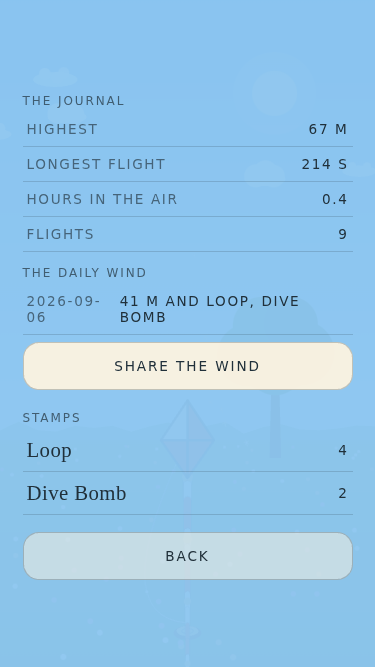
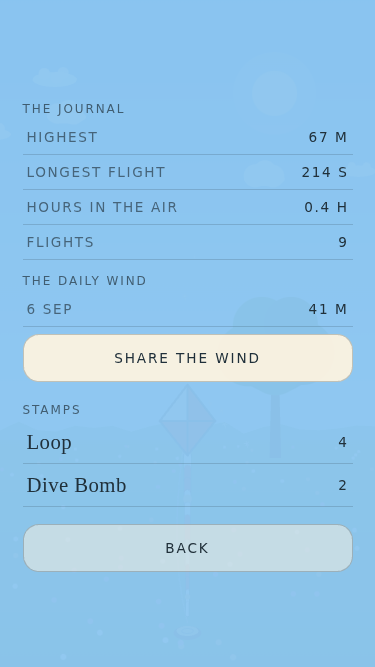
Updraft: a spoken date, and a friend's invitation that covers nothing
The debt Fable's takeover named is closed. The seven gates were rerun cold as
one table and all passed, then test/daily.mjs was watched to fail under the
DAILY.seedFor mutation the ledger asked for: with the seed taken from the clock
the two boot assertion goes red on exactly the line it guards.

Then the two copy faults the builder saw in its own shots. The Daily Wind toast
and the journal row both printed a raw ISO day, so a player read the wind of
2026 dash 09 dash 06, which is unreadable and carries dashes into player copy
that the studio's law forbids. DAILY.day speaks it, short in the journal's
narrow left column, and that row now carries the height alone with the stamps
left to the list under it. Hours carries its unit like every other row, and a
number never breaks from its unit across a line.

The invitation moved out of the toast. Floating it covered the title art at 26
percent, the wordmark and TO THE FIELD at 46, and the sound row at the foot,
all three seen in shots; it is a quoted line in the title's own column now,
above the button it explains, and nothing on a 915 tall phone is pushed off.

The daily gate used to require the literal string with the ISO date in it, so
the gate was the bug's protector. It holds the law instead: the day is named in
words, the height and the stamps are there, and no dash of any kind appears.

Seven gates green at stamp 20260906f.

Claude-Session: https://claude.ai/code/session_01CohA1CK6e5eCWUdrKWPpuM

diff --git a/satellites/updraft/index.html b/satellites/updraft/index.html
@@ -9,9 +9,9 @@
 <meta name="apple-mobile-web-app-capable" content="yes">
 <meta name="apple-mobile-web-app-status-bar-style" content="black-translucent">
 <meta name="apple-mobile-web-app-title" content="UPDRAFT">
-<link rel="manifest" href="./manifest.webmanifest?v=20260906e">
-<link rel="apple-touch-icon" href="./icon-192.png?v=20260906e">
-<link rel="icon" href="./icon-192.png?v=20260906e">
+<link rel="manifest" href="./manifest.webmanifest?v=20260906f">
+<link rel="apple-touch-icon" href="./icon-192.png?v=20260906f">
+<link rel="icon" href="./icon-192.png?v=20260906f">
 <link rel="canonical" href="https://lucidwinds.com/satellites/updraft/">
 <style>
 /*  UPDRAFT
@@ -92,6 +92,16 @@ html,body{margin:0;padding:0;height:100%;background:#8CC6F0;color:var(--ink);
 .card.sel b::after{content:"  \2713"}
 .title-line{font-size:.8rem;letter-spacing:.11em;color:var(--ink);opacity:.8;
   text-align:center;margin:2px 0 18px;line-height:1.7;padding:0 6px}
+/* ⛔ A FRIEND'S INVITATION IS CONTENT, NOT A TOAST. Floating, it covered the title art
+   at 26 percent, the wordmark and TO THE FIELD at 46, and the sound row at the foot
+   (three Sep 06 shots). It is a line in the column now, above the button it explains,
+   and it pushes nothing off a 915 tall phone. */
+/* not the buttons' cream, or it reads as a fourth button: a quieter panel with a
+   gold rule down its left edge, the way a quoted line is set */
+#titleFrom{opacity:1;color:var(--ink);background:rgba(255,255,255,.34);
+  border-left:3px solid rgba(214,110,74,.75);border-radius:0 12px 12px 0;
+  padding:10px 14px;max-width:330px;margin:0 0 18px;font-size:.78rem;text-align:left}
+#titleFrom[hidden]{display:none}
 .lede{font-size:.9rem;line-height:1.7;color:var(--ink);text-align:left;
   width:100%;max-width:330px;margin:9px 0}
 .cap{font-size:.75rem;letter-spacing:.16em;color:var(--ink);opacity:.7;margin:14px 0 4px;
@@ -105,19 +115,25 @@ html,body{margin:0;padding:0;height:100%;background:#8CC6F0;color:var(--ink);
 .toggles .btn{margin:7px 0}
 .stat{font-size:.8rem;color:var(--cream);letter-spacing:.13em;margin:5px 0;text-transform:uppercase}
 #endWord{font-size:1.4rem;letter-spacing:.2em;color:var(--cream);margin:6px 0 2px}
-#toast{position:fixed;left:50%;top:26%;transform:translateX(-50%);
+/* ⛔ THE TOAST NEVER COVERS A CONTROL OR THE ART. 26 percent put it over the title's
+   art panel, the one picture on the screen; 46 percent moved it onto the wordmark and
+   the top half of TO THE FIELD (both Sep 06 daily title shots). In play it keeps the
+   middle, where nothing is; on the title it drops to the empty band under the last
+   button and over the brand. */
+#toast{position:fixed;left:50%;top:46%;transform:translateX(-50%);
   background:rgba(255,244,224,.94);border:1px solid rgba(32,48,58,.25);
   color:var(--ink);padding:10px 16px;border-radius:12px;font-size:.85rem;
   z-index:40;opacity:0;pointer-events:none;transition:opacity 180ms ease-out;
   max-width:90%;text-align:center}
 #toast.on{opacity:1}
+#toast.low{top:auto;bottom:calc(58px + var(--safeB))}
 #testPanel{position:absolute;inset:0;z-index:60;background:#04070a;color:#cfe;
   overflow:auto;font:12px/1.55 ui-monospace,SFMono-Regular,Menlo,monospace;
   padding:14px;display:none;white-space:pre-wrap}
 #testPanel.on{display:block}
 @media (prefers-reduced-motion:reduce){*{transition-duration:1ms!important}}
 </style>
-<script src="/music-unlocks.js?v=20260906e" defer></script>
+<script src="/music-unlocks.js?v=20260906f" defer></script>
 </head>
 <body>
 <h1 style="position:absolute;width:1px;height:1px;margin:-1px;padding:0;overflow:hidden;clip:rect(0 0 0 0);clip-path:inset(50%);white-space:nowrap;border:0">UPDRAFT</h1>
@@ -138,6 +154,7 @@ html,body{margin:0;padding:0;height:100%;background:#8CC6F0;color:var(--ink);
     <canvas id="titleArt" width="660" height="360" aria-label="A kite over a field"></canvas>
     <div id="titleWord">UPDRAFT</div>
     <div class="title-line">Go fly a kite. Right now.</div>
+    <div class="title-line" id="titleFrom" hidden></div>
     <button class="btn lead" id="btnPlay">TO THE FIELD</button>
     <div class="toggles">
       <button class="btn small" id="btnHow">HOW TO FLY</button>
@@ -1420,8 +1437,27 @@ var DAILY = (function () {
     if (!m) return null;
     return { date: m[1], alt: m[2] ? parseInt(m[2], 10) : 0, tricks: (m[3] || '').split('').map(function (c) { return NAMES[c]; }) };
   }
-  function words(t) { return (t.alt ? t.alt + ' m' : 'the grass') + (t.tricks.length ? ' and ' + t.tricks.join(', ') : ''); }
-  return { today: today, seedFor: seedFor, moodFor: moodFor, link: link, parse: parse, words: words };
+  /* ⛔ A DATE A PLAYER READS IS SPOKEN, NEVER AN ISO STRING. The toast said "the wind
+     of 2026-09-06" and the journal row said "2026-09-06", which is both unreadable and
+     two dashes in player copy, which the studio's copy law forbids. day() speaks it,
+     and shortDay() fits the journal's narrow left column. */
+  var MONTHS = ['January', 'February', 'March', 'April', 'May', 'June', 'July',
+    'August', 'September', 'October', 'November', 'December'];
+  function day(dateStr, short) {
+    var p = String(dateStr || '').split('-');
+    if (p.length !== 3) return String(dateStr || '');
+    var m = MONTHS[parseInt(p[1], 10) - 1] || p[1], d = parseInt(p[2], 10);
+    if (short) m = m.slice(0, 3);
+    var out = d + ' ' + m;
+    if (p[0] !== String(new Date().getFullYear())) out += ' ' + p[0];
+    return out;
+  }
+  /* a number and its unit are one word, so "41 m" never breaks across two lines */
+  function words(t) { return (t.alt ? t.alt + '\u00a0m' : 'the grass') + (t.tricks.length ? ' and ' + t.tricks.join(', ') : ''); }
+  /* the journal's own row has a narrow left column, so it carries the height only and
+     leaves the tricks to the STAMPS list right below it */
+  function shortWords(t) { return t.alt ? t.alt + '\u00a0m' : 'the grass'; }
+  return { today: today, seedFor: seedFor, moodFor: moodFor, link: link, parse: parse, words: words, shortWords: shortWords, day: day };
 })();
 function shareDaily(t) {
   var url = DAILY.link(t), text = 'I flew the Daily Wind to ' + DAILY.words(t) + '. Your turn, same gusts.';
@@ -1433,15 +1469,16 @@ function shareDaily(t) {
   fallback();
 }
 
-var STAMP = '20260906e';
+var STAMP = '20260906f';
 function showScreen(name) {
   var ids = { title: 'scrTitle', how: 'scrHow', pause: 'scrPause', mood: 'scrMood', kites: 'scrKites', journal: 'scrJournal', end: 'scrEnd' }, k;
   for (k in ids) $(ids[k]).classList.toggle('on', k === name);
   G.screen = name;
   $('hud').style.display = (name === 'play') ? '' : 'none';
 }
-function toast(msg) {
+function toast(msg, low) {
   var t = $('toast'); t.textContent = msg; t.classList.add('on');
+  if (low) t.classList.add('low'); else t.classList.remove('low');
   clearTimeout(toast.h); toast.h = setTimeout(function () { t.classList.remove('on'); }, 2200);
 }
 function hint(msg) { var h = $('hint'); h.textContent = msg; h.classList.add('on'); clearTimeout(hint.h); hint.h = setTimeout(function () { h.classList.remove('on'); }, 5000); }
@@ -1584,9 +1621,9 @@ function openJournal(from) {
   if (G.st) setInput(G.st, false, 0); G.ptr = null;
   $('jAlt').innerHTML = '<i>HIGHEST</i><span>' + j.bestAlt + ' M</span>';
   $('jLong').innerHTML = '<i>LONGEST FLIGHT</i><span>' + j.longest + ' S</span>';
-  $('jHours').innerHTML = '<i>HOURS IN THE AIR</i><span>' + (Math.round(j.hours * 10) / 10) + '</span>';
+  $('jHours').innerHTML = '<i>HOURS IN THE AIR</i><span>' + (Math.round(j.hours * 10) / 10) + '\u00a0H</span>';
   $('jFlights').innerHTML = '<i>FLIGHTS</i><span>' + j.flights + '</span>';
-  $('jDaily').innerHTML = j.daily ? '<i>' + j.daily.date + '</i><span>' + DAILY.words(j.daily).toUpperCase() + '</span>' : '<i>NOT FLOWN YET</i><span>3 MIN, ONE WIND</span>';
+  $('jDaily').innerHTML = j.daily ? '<i>' + DAILY.day(j.daily.date, 1).toUpperCase() + '</i><span>' + DAILY.shortWords(j.daily).toUpperCase() + '</span>' : '<i>NOT FLOWN YET</i><span>3 MIN, ONE WIND</span>';
   $('btnShareJ').hidden = !j.daily;
   names.forEach(function (n) { var c = j.tricks[n] || 0; if (c) { any = true; html += '<div class="jrow"><b>' + n + '</b><span>' + c + '</span></div>'; } });
   $('jStamps').innerHTML = any ? html : '<div class="none">No stamps yet. Loops, dives and saves come from your thumb.</div>';
@@ -1680,7 +1717,10 @@ function boot() {
   if (G.dailyFrom) {
     $('btnDaily').textContent = 'FLY THEIR WIND';
     try { history.replaceState(null, '', location.pathname + location.search); } catch (e) {}
-    setTimeout(function () { toast('A friend flew the wind of ' + G.dailyFrom.date + ' to ' + DAILY.words(G.dailyFrom) + '. Your turn.'); }, 600);
+    var fl = $('titleFrom');
+    /* the button below already says the turn is yours, so the line stops at the deed */
+    fl.textContent = 'A friend flew the wind of ' + DAILY.day(G.dailyFrom.date) + ' to ' + DAILY.words(G.dailyFrom) + '.';
+    fl.hidden = false;
   }
   AUDIO.setOn(!!G.sound);
   fitCanvas();

diff --git a/satellites/updraft/sw.js b/satellites/updraft/sw.js
@@ -12,7 +12,7 @@
    Bump SHELL_VERSION on every deploy, AND the ?v= on the registration in
    index.html in lockstep (they are both the STAMP, and tools/lint.mjs asserts it) — this host edge-pins bare sw.js URLs for 7 days. */
 
-const SHELL_VERSION = "updraft-shell-20260906e";
+const SHELL_VERSION = "updraft-shell-20260906f";
 const SFX_CACHE     = "updraft-unused-v1"; // no recorded audio: every sound is synthesised
 const NAV_TIMEOUT_MS = 8000;
 

diff --git a/satellites/updraft/docs/DECISIONS.md b/satellites/updraft/docs/DECISIONS.md
@@ -50,3 +50,15 @@ The base magnitude is the real number; the snap rule reads the mood (3.3, Bluste
 
 **A failed feed is asked again no sooner than ten minutes on.**
 Without the floor every new flight re-asked a dead feed (the gate counted three calls in a minute). The card says the feed failed and the picked mood flies.
+
+**A date a player reads is spoken, and a friend's invitation is a line, not a toast.**
+The Daily Wind toast and the journal row both printed the raw ISO day, so a player read
+"the wind of 2026-09-06", which is unreadable and carries two dashes into player copy that
+the studio's copy law forbids. `DAILY.day()` speaks it ("6 September", the year only when
+it is not this one) and `DAILY.day(d, 1)` shortens it for the journal's narrow left column,
+which now carries the height alone and leaves the stamps to the list below it. The
+invitation moved out of the toast entirely: floating, it covered the title art at 26 percent,
+the wordmark and TO THE FIELD at 46, and the sound row at the foot, so it is now a quoted
+line in the title's own column, above the button it explains. `test/daily.mjs` used to pin
+the literal string with the ISO date in it, which made the gate the bug's protector; it
+holds the law instead now, that the day is named in words and no dash of any kind appears.
